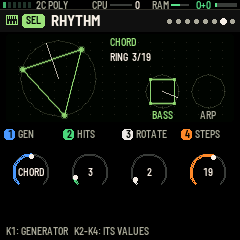
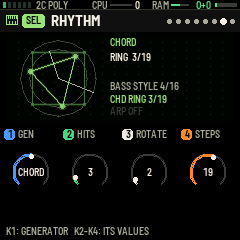
Update 49: RHYTHM's rings overlaid round one centre, the picked one on top, with a legend
Claude-Session: https://claude.ai/code/session_012oqEzCqxJwGJFCR1RLhtPi

diff --git a/web/manual/fm1.html b/web/manual/fm1.html
@@ -641,7 +641,7 @@ python3 ~/fm1-base/tools/fm1_install.py fm1rack.fwsc</code></pre>
 </ul>
 <p><strong>Page 6, FEEL</strong>: <strong>HUMAN</strong> (0–100, 0 to start with): each note of a chord comes a little late at random (up to 35 ms at 100) and a little softer or louder, so chords sound played rather than machine-tight. It works on the keys and on the chords the sequencer plays, together with STRUM, and is different every time.</p>
 <p><img src="img/fm1-feel.png" alt="SEL › FEEL: four notes of a chord as they&#39;d fall" /></p>
-<p><strong>Pages 7–8, RHYTHM and RHYTHM CHANCE</strong> (update 48): a ring generator for each layer. K1 (<strong>GEN</strong>) picks the generator to see and set: <strong>BASS M</strong> (the master), <strong>CHORD</strong> or <strong>ARP</strong>; K2–K4 set its values. The big ring is the one picked; the two small rings show the others. Steps are dots round the ring, the hits are joined into a shape, and a hand sweeps round as it plays.</p>
+<p><strong>Pages 7–8, RHYTHM and RHYTHM CHANCE</strong> (update 48): a ring generator for each layer. K1 (<strong>GEN</strong>) picks the generator to see and set: <strong>BASS M</strong> (the master), <strong>CHORD</strong> or <strong>ARP</strong>; K2–K4 set its values. All three are drawn over each other round one centre (BASS outside, CHORD, ARP inside), the one picked bright and on top, the others dimmed behind; a legend beside them gives each one's mode and hits. Steps are dots round the ring, the hits are joined into a shape, and a hand sweeps round as it plays.</p>
 <ul>
 <li><p><strong>RHYTHM</strong>: <strong>HITS</strong> (how many), <strong>ROTATE</strong> (turns the pattern round), <strong>STEPS</strong> (the ring's length, 2–32).</p></li>
 <li><p><strong>RHYTHM CHANCE</strong>: <strong>MODE</strong>, <strong>CHANCE</strong> (each hit's chance to play, 100% to start with), <strong>MUTATE</strong> (at the end of each cycle, the chance the ring turns a step or gains or loses a hit; a quarter of the time it goes back to the pattern as set).</p></li>

diff --git a/firmware/fm1/rack/vis3.c b/firmware/fm1/rack/vis3.c
@@ -617,13 +617,14 @@ static void vis_rhythm(uint16_t c, int sub)
     uint32_t now = plat_ms();
     char t[32], u[8];
     (void)sub;
+    /* (update 49) all three overlaid round one centre: BASS outside, CHORD, ARP inside; the one picked drawn last,
+     * full strength, the others behind it at half. The legend on the right: each one's colour, mode and hits */
     for (o = 0; o < 3; o++) {
-        int n, md = rg_mode(o), live, cur;
+        int n, md, live, cur, k, h = 0;
         uint32_t m;
         float fl;
-        uint16_t col = o == 0 ? c : o == 1 ? K_CHD : K_ARP;
-        int32_t cx, cy, r;
-        g = o == 0 ? v : o == 1 ? (v == 0 ? 1 : 0) : (v == 2 ? 1 : 2);   /* the one shown big, then the other two */
+        uint16_t col;
+        g = o == 2 ? v : o == 0 ? (v == 0 ? 1 : 0) : (v == 2 ? 1 : 2);   /* the picked one last, on top */
         md = rg_mode(g);
         col = g == 0 ? c : g == 1 ? K_CHD : K_ARP;
         m = rg_ring(g, &n);
@@ -632,11 +633,18 @@ static void vis_rhythm(uint16_t c, int sub)
         fl = 1.0f - (float)(now - vr_at[g]) * 0.004f;
         fl = fl < 0.0f ? 0.0f : fl;
         cur = live ? rg.pos[g] % n : -1;
-        if (md == RM_OFF) col = K_FAINT;
-        if (o == 0) { cx = vmx(52); cy = vmy(21); r = 38; }
-        else { cx = vmx(o == 1 ? 156 : 202); cy = vmy(27); r = 17; }
-        ring_draw(cx, cy, r, md == RM_OFF ? 0u : m, n, cur, fl, RP(g, RF_CH), col, o == 0);
-        if (o) cv_text((o == 1 ? 156 : 202) - text_w(&FONT_T, GS[g]) / 2, 36, &FONT_T, GS[g], md == RM_OFF ? K_DIM : col);
+        if (md != RM_OFF) {
+            if (g != v) col = mix565(col, K_WELL, 140);
+            ring_draw(vmx(52), vmy(21), 38 - g * 9, m, n, cur, fl, RP(g, RF_CH), col, g == v);
+        }
+        for (k = 0; k < n; k++) h += m >> k & 1u;
+        t[0] = 0;                                /* the legend */
+        cat(t, GS[g]);
+        cat(t, " ");
+        if (md == RM_OFF) cat(t, "OFF");
+        else { cat(t, md == RM_STYLE ? "STYLE " : md == RM_SAME ? "SAME " : md == RM_ANS ? "ANSWER " : "RING ");
+               int_text(h, u); cat(t, u); cat(t, "/"); int_text(n, u); cat(t, u); }
+        cv_text(104, 22 + g * 6, &FONT_T, t, md == RM_OFF ? K_FAINT : g == v ? (g == 0 ? c : g == 1 ? K_CHD : K_ARP) : K_DIM);
     }
     cv_text(104, 1, &FONT_T, GN[v], v == 0 ? c : v == 1 ? K_CHD : K_ARP);
     t[0] = 0;

diff --git a/manual/FM1-Rack-FM1-Firmware-Manual.md b/manual/FM1-Rack-FM1-Firmware-Manual.md
@@ -422,7 +422,7 @@ SEL, ARP and GLOBAL are settings of the instrument, not of a preset. They stay w
 
 ![SEL › FEEL: four notes of a chord as they'd fall](../web/manual/img/fm1-feel.png)
 
-**Pages 7–8, RHYTHM and RHYTHM CHANCE** (update 48): a ring generator for each layer. K1 (**GEN**) picks the generator to see and set: **BASS M** (the master), **CHORD** or **ARP**; K2–K4 set its values. The big ring is the one picked; the two small rings show the others. Steps are dots round the ring, the hits are joined into a shape, and a hand sweeps round as it plays.
+**Pages 7–8, RHYTHM and RHYTHM CHANCE** (update 48): a ring generator for each layer. K1 (**GEN**) picks the generator to see and set: **BASS M** (the master), **CHORD** or **ARP**; K2–K4 set its values. All three are drawn over each other round one centre (BASS outside, CHORD, ARP inside), the one picked bright and on top, the others dimmed behind; a legend beside them gives each one's mode and hits. Steps are dots round the ring, the hits are joined into a shape, and a hand sweeps round as it plays.
 
 - **RHYTHM**: **HITS** (how many), **ROTATE** (turns the pattern round), **STEPS** (the ring's length, 2–32).
 - **RHYTHM CHANCE**: **MODE**, **CHANCE** (each hit's chance to play, 100% to start with), **MUTATE** (at the end of each cycle, the chance the ring turns a step or gains or loses a hit; a quarter of the time it goes back to the pattern as set).
